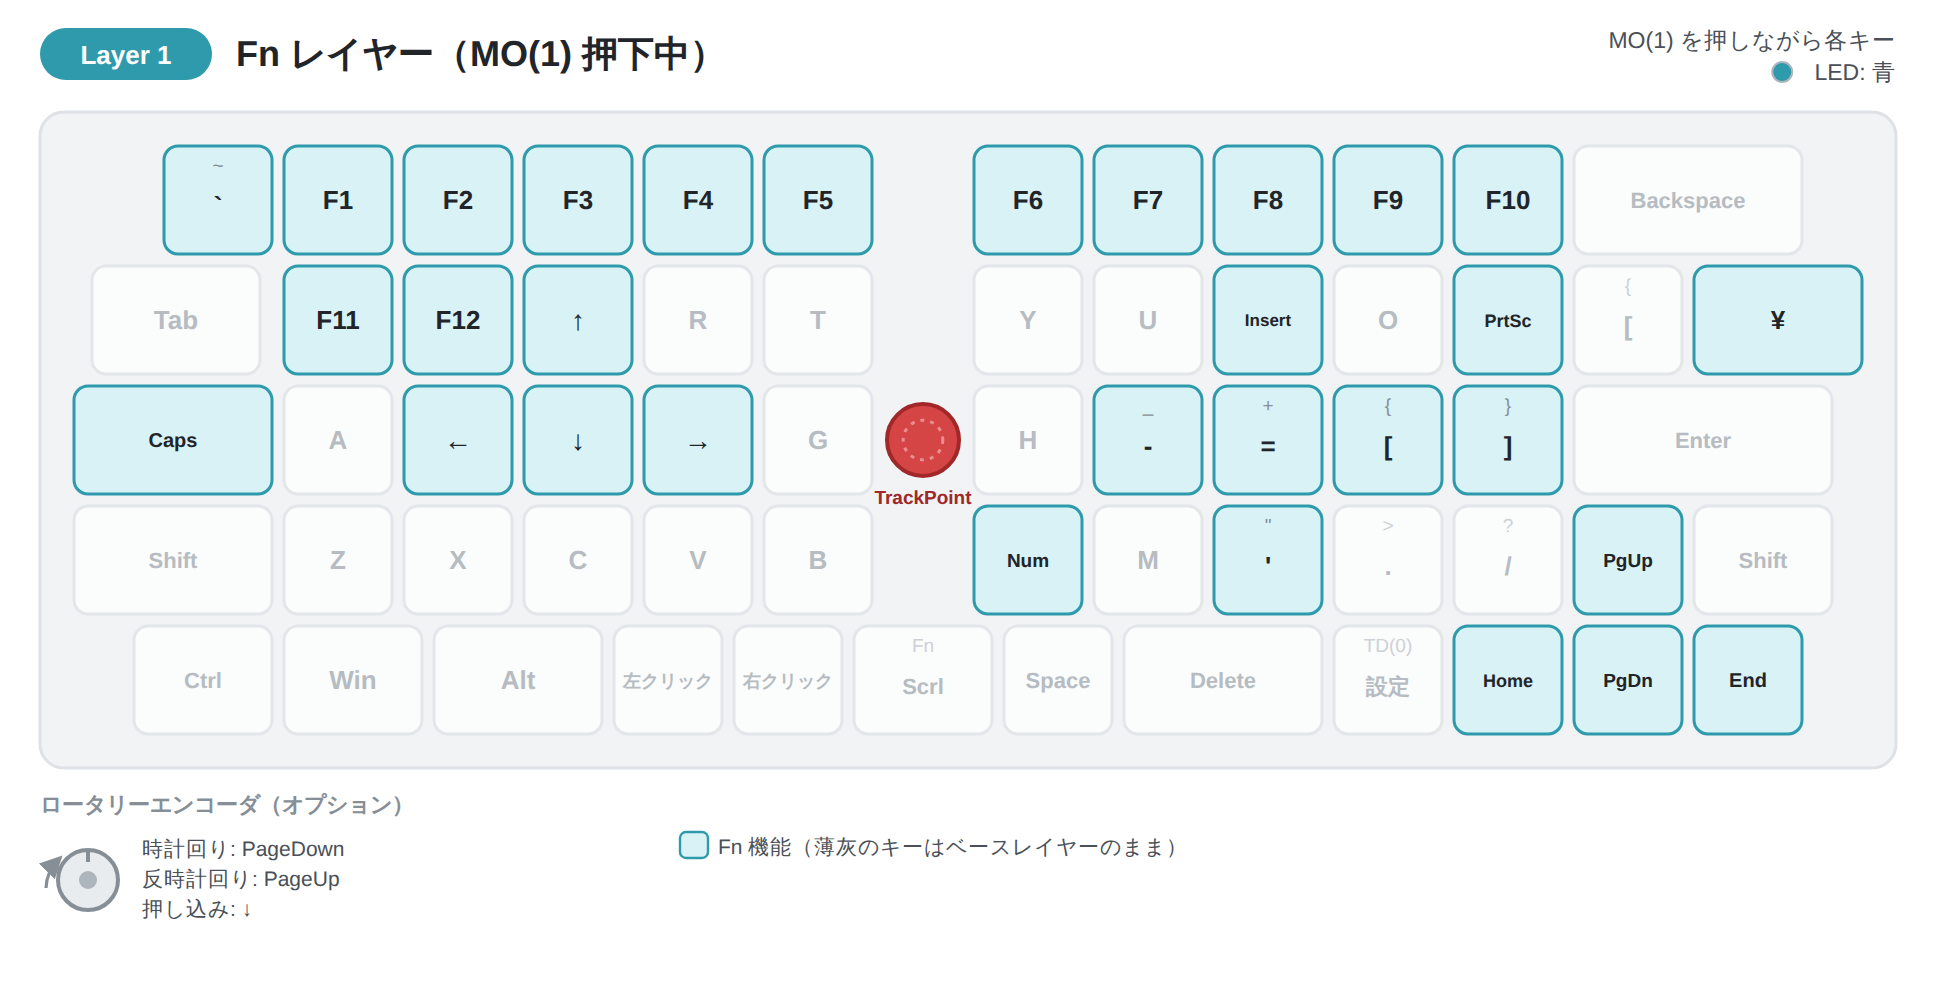
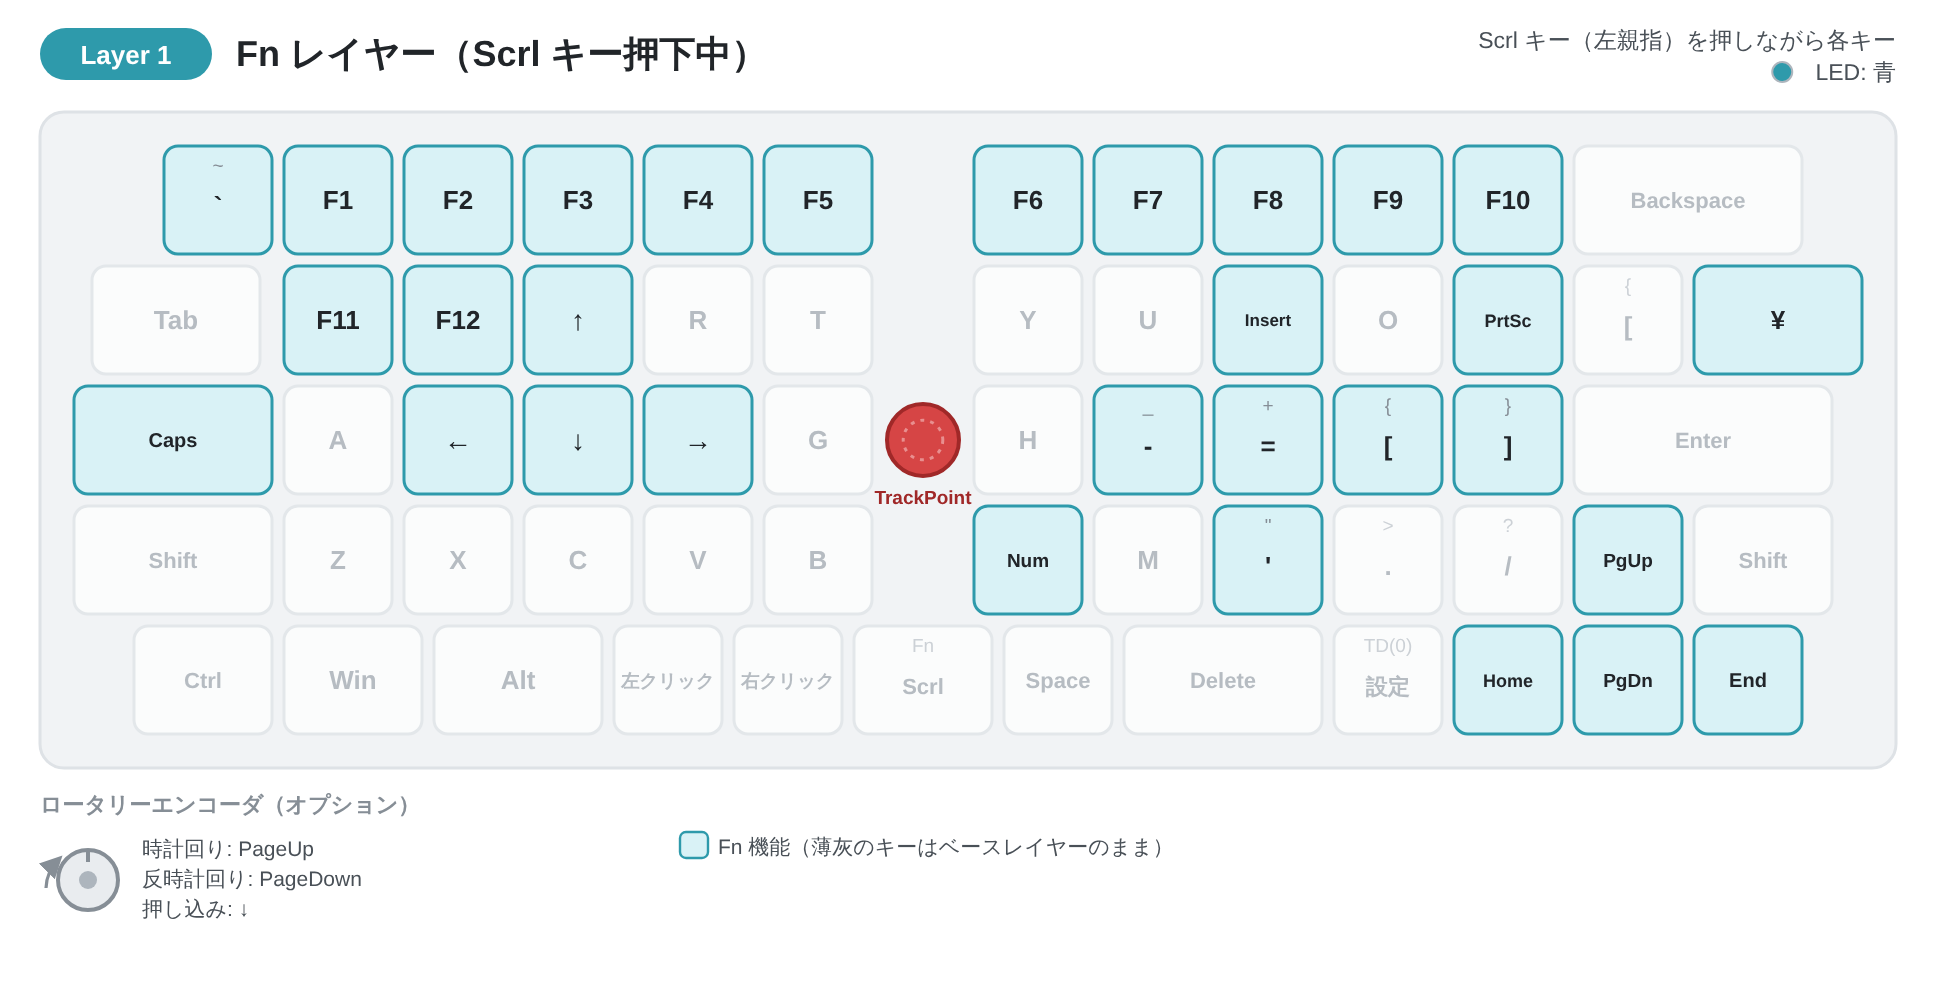
docs: match the guides and key diagrams to firmware v3.0.2
- Encoder: clockwise turns volume / page / octave up on every layer.
- 3-Split: mouse buttons are on the mouse layer only (quick start,
  button tables, auto mouse layer OFF).
- Scrl key lights the LED blue (Fn layer); Fn diagram names the Scrl key.
- Fn table: add Num Lock (N) and apostrophe (,).
- Speed 1 to 3 all refuse adjustment; octave limits blink red.
- Finer scrolling needs host support; 6.25U has no preset.
- Piano mode toggles with S; clearer TrackPoint press-click footnote.
- Note that a 5-Split .vil from v3.0.1 restores middle click.

Claude-Session: https://claude.ai/code/session_0131FaQTqTWWCuVEr83A3pz8

diff --git a/firmware/README.md b/firmware/README.md
@@ -64,6 +64,8 @@ v3 は **Vial 専用**です。**Remap / VIA には対応していません。**
 - ⚠ **旧版（v2.x）と、v3.0.0-rc.3 以前のテスト版で保存したレイアウトファイル（`.vil`）は読み込まないでください。**
   独自キー（速度設定・サウンド・オートレイヤーなど）の並びが変わっているため、読み込むと
   **別の機能が割り当てられます**。Vial は保存元のキーボードを確認しないので、そのまま書き込まれます。
+- v3.0.1 以前に 5-Split 版で保存したファイルを v3.0.2 以降で読み込むと、マウスレイヤーの Scrl の位置は
+  保存時のマウス中ボタンに戻ります。スクロールにしたい場合は、読み込んだあと Vial でその位置に「Scrl」を割り当ててください。
   これらから移行する場合は、お手数ですが Vial で組み直してください。
 - 書き込み中は USB ケーブルを抜かないでください。
 - v3 をお使いで問題がない場合、v3 の新しい版への更新は必須ではありません。
@@ -87,7 +89,7 @@ v3 は **Vial 専用**です。**Remap / VIA には対応していません。**
   マウスレイヤーは一番上のレイヤー4になりました。
 - **左親指のキーが Scrl キーになりました。** 押している間は Fn レイヤーがそのまま使え、押しながら
   トラックポイントを動かすとスクロールになります。
-- **トラックポイントのスクロールが滑らかになりました。** 1 ノッチより細かい単位で送るため、
+- **トラックポイントのスクロールが滑らかになりました。** パソコン側が対応している場合は 1 ノッチより細かい単位で送るため、
   ゆっくり動かしたときの追従が改善します。強く操作するほど速く進む調整も既定で有効です
   （設定レイヤーの `T` で切り替えられます）。
 - **設定キー（Delete の右）**: 押している間が設定レイヤー（レイヤー2）です。**短くタップしてから押し続ける**と
